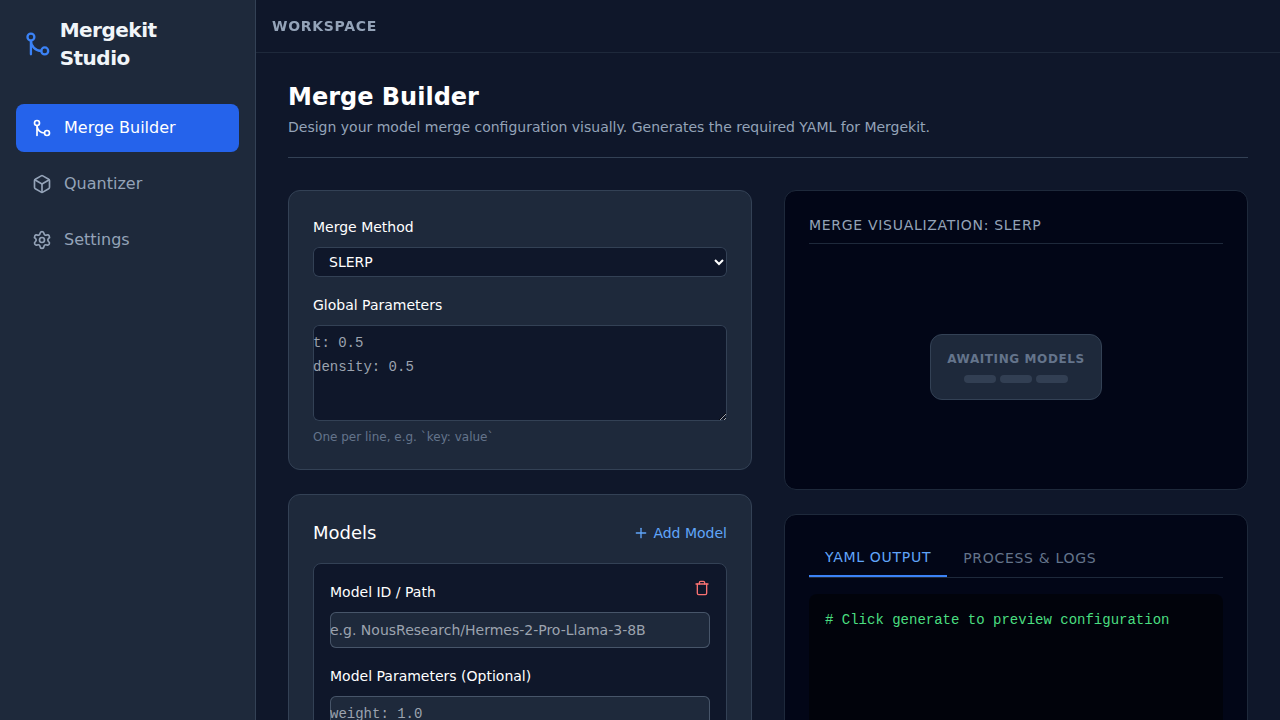
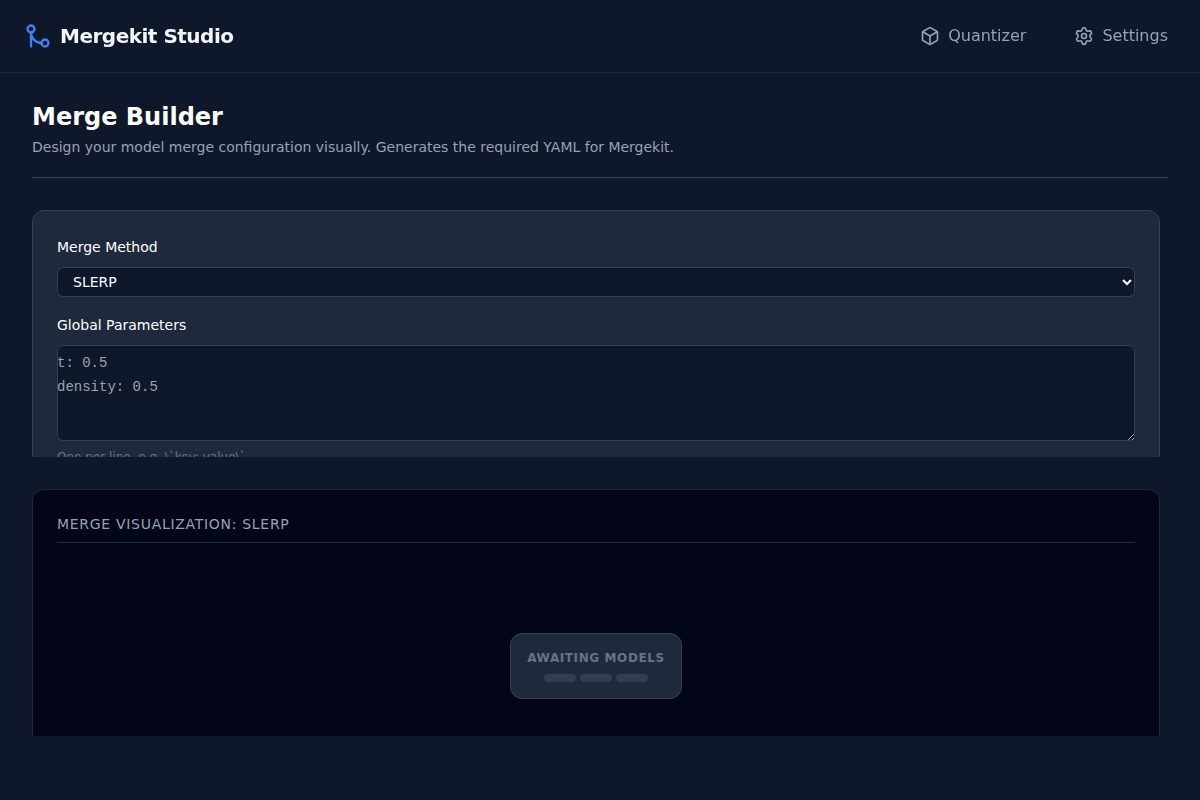
feat: Remove left sidebar and move buttons to top header
- Removed left sidebar from `Layout.jsx`
- Moved "Mergekit Studio" title to the top header
- Moved "Quantizer" and "Settings" buttons to the top header
- Adjusted padding, scroll regions, and main wrapper flex containers to prevent content cutting off at the bottom of the page in `Layout.jsx` and `MergeBuilder.jsx`.
- Updated public screenshots for MergeBuilder and Quantizer to reflect the new layout.

diff --git a/frontend/src/components/Layout.jsx b/frontend/src/components/Layout.jsx
@@ -1,5 +1,5 @@
 import { useState } from "react";
-import { Settings, GitMerge, Activity, Box, Terminal, X } from "lucide-react";
+import { Settings, GitMerge, Box, X } from "lucide-react";
 import MergeBuilder from "../pages/MergeBuilder";
 import Quantizer from "../pages/Quantizer";
 import SettingsPage from "../pages/Settings";
@@ -7,48 +7,43 @@ import SettingsPage from "../pages/Settings";
 export default function Layout() {
   const [openView, setOpenView] = useState(null);
 
-  const navItems = [
-    { name: "Merge Builder", view: null, icon: <GitMerge size={20} /> },
-    { name: "Quantizer", view: "quantizer", icon: <Box size={20} /> },
-    { name: "Settings", view: "settings", icon: <Settings size={20} /> },
-  ];
-
   return (
-    <div className="flex h-screen bg-slate-900 text-slate-100 font-sans overflow-hidden">
-      {/* Sidebar */}
-      <div className="w-64 bg-slate-800 border-r border-slate-700 p-4 flex flex-col z-20">
-        <div className="flex items-center gap-2 mb-8 px-2">
+    <div className="flex flex-col h-screen bg-slate-900 text-slate-100 font-sans overflow-hidden">
+      {/* Header */}
+      <header className="flex items-center justify-between border-b border-slate-800 bg-slate-900/50 p-4 sticky top-0 z-10 backdrop-blur">
+        <div className="flex items-center gap-2 px-2">
           <GitMerge className="text-blue-500" size={28} />
           <h1 className="text-xl font-bold tracking-tight">Mergekit Studio</h1>
         </div>
-
-        <nav className="flex-1 space-y-2">
-          {navItems.map((item) => {
-            const isActive = openView === item.view;
-            return (
-              <button
-                key={item.name}
-                onClick={() => setOpenView(item.view)}
-                className={`w-full flex items-center gap-3 px-4 py-3 rounded-lg transition-colors ${
-                  isActive
-                    ? "bg-blue-600 text-white"
-                    : "text-slate-400 hover:bg-slate-700 hover:text-white"
-                }`}
-              >
-                {item.icon}
-                <span className="font-medium">{item.name}</span>
-              </button>
-            );
-          })}
-        </nav>
-      </div>
+        <div className="flex items-center gap-4">
+          <button
+            onClick={() => setOpenView("quantizer")}
+            className={`flex items-center gap-2 px-4 py-2 rounded-lg transition-colors ${
+              openView === "quantizer"
+                ? "bg-blue-600 text-white"
+                : "text-slate-400 hover:bg-slate-800 hover:text-white"
+            }`}
+          >
+            <Box size={20} />
+            <span className="font-medium">Quantizer</span>
+          </button>
+          <button
+            onClick={() => setOpenView("settings")}
+            className={`flex items-center gap-2 px-4 py-2 rounded-lg transition-colors ${
+              openView === "settings"
+                ? "bg-blue-600 text-white"
+                : "text-slate-400 hover:bg-slate-800 hover:text-white"
+            }`}
+          >
+            <Settings size={20} />
+            <span className="font-medium">Settings</span>
+          </button>
+        </div>
+      </header>
 
       {/* Main Content Area */}
-      <div className="flex-1 overflow-auto bg-slate-900 relative">
-        <header className="border-b border-slate-800 bg-slate-900/50 p-4 sticky top-0 z-10 backdrop-blur">
-            <h2 className="text-sm font-semibold text-slate-400 uppercase tracking-wider">Workspace</h2>
-        </header>
-        <main className="p-8 max-w-6xl mx-auto">
+      <div className="flex-1 overflow-hidden bg-slate-900 relative">
+        <main className="p-4 md:p-8 max-w-[1400px] mx-auto h-full flex flex-col">
           <MergeBuilder />
         </main>
       </div>

diff --git a/frontend/src/pages/MergeBuilder.jsx b/frontend/src/pages/MergeBuilder.jsx
@@ -129,17 +129,17 @@ export default function MergeBuilder() {
   };
 
   return (
-    <div className="space-y-8">
-      <div className="border-b border-slate-700 pb-5">
+    <div className="space-y-8 h-full flex flex-col">
+      <div className="border-b border-slate-700 pb-5 shrink-0">
         <h3 className="text-2xl font-semibold leading-6 text-white">Merge Builder</h3>
         <p className="mt-2 max-w-4xl text-sm text-slate-400">
           Design your model merge configuration visually. Generates the required YAML for Mergekit.
         </p>
       </div>
 
-      <div className="grid grid-cols-1 gap-x-8 gap-y-8 xl:grid-cols-2">
+      <div className="grid grid-cols-1 gap-x-8 gap-y-8 xl:grid-cols-2 flex-1 min-h-0 pb-8">
         {/* Left Column: Form */}
-        <div className="space-y-6">
+        <div className="space-y-6 overflow-y-auto pr-2 pb-6">
           {compatibilityIssue && (
               <div className="bg-red-900/20 border border-red-800 p-4 rounded-lg flex items-start gap-3">
                   <AlertTriangle className="text-red-500 mt-0.5" size={20} />
@@ -242,7 +242,7 @@ export default function MergeBuilder() {
         </div>
 
         {/* Right Column: Visualizer & Output */}
-        <div className="xl:col-span-1 space-y-6 flex flex-col h-full">
+        <div className="xl:col-span-1 space-y-6 flex flex-col h-full overflow-y-auto pr-2 pb-6">
             <DynamicVisualizer
                 method={method}
                 baseModel={baseModel}
